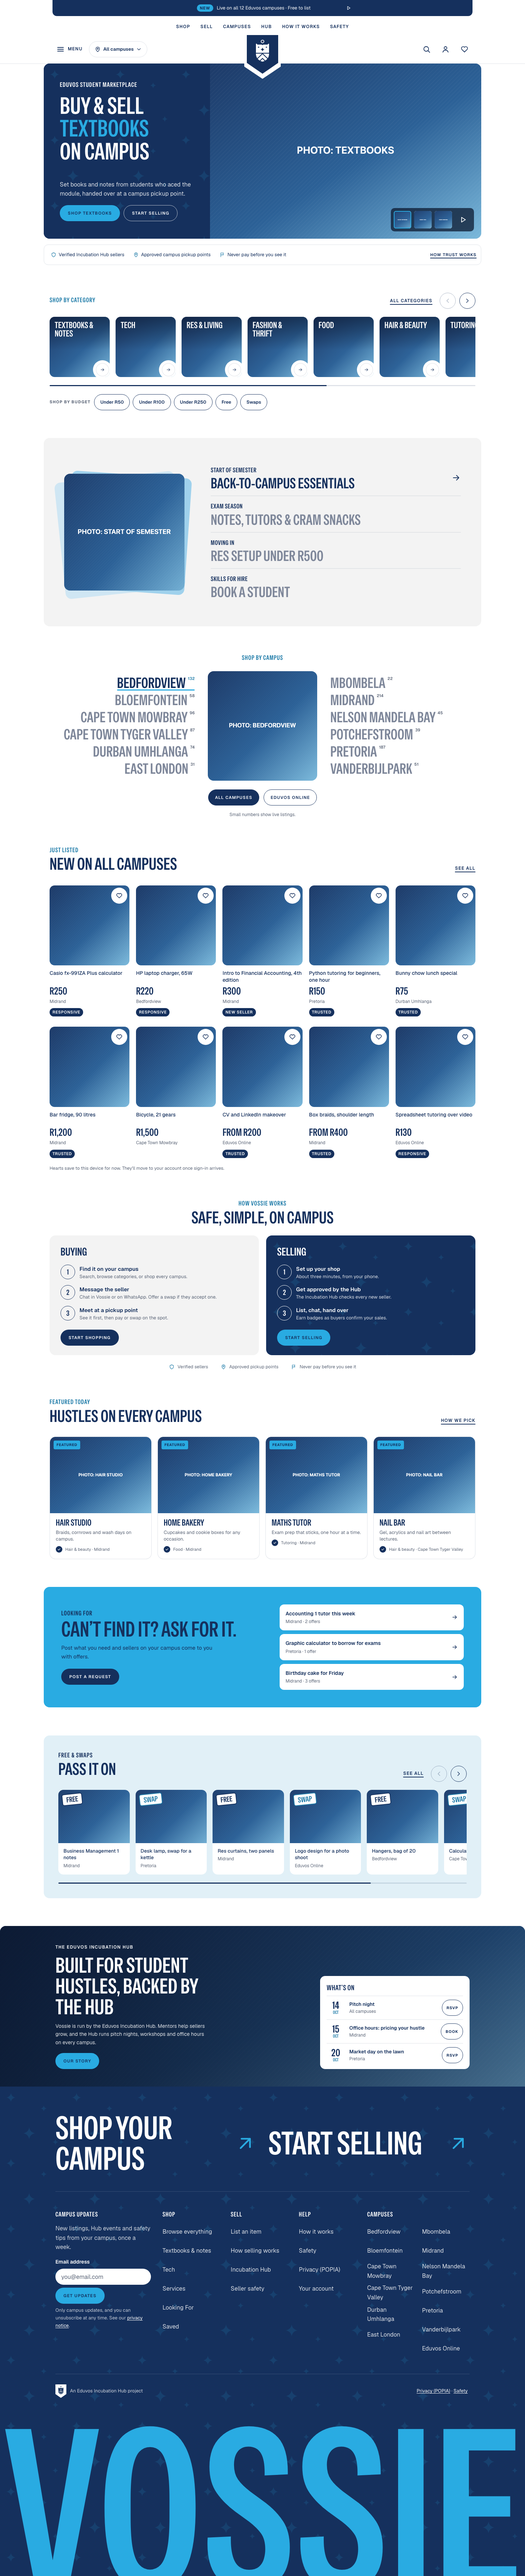
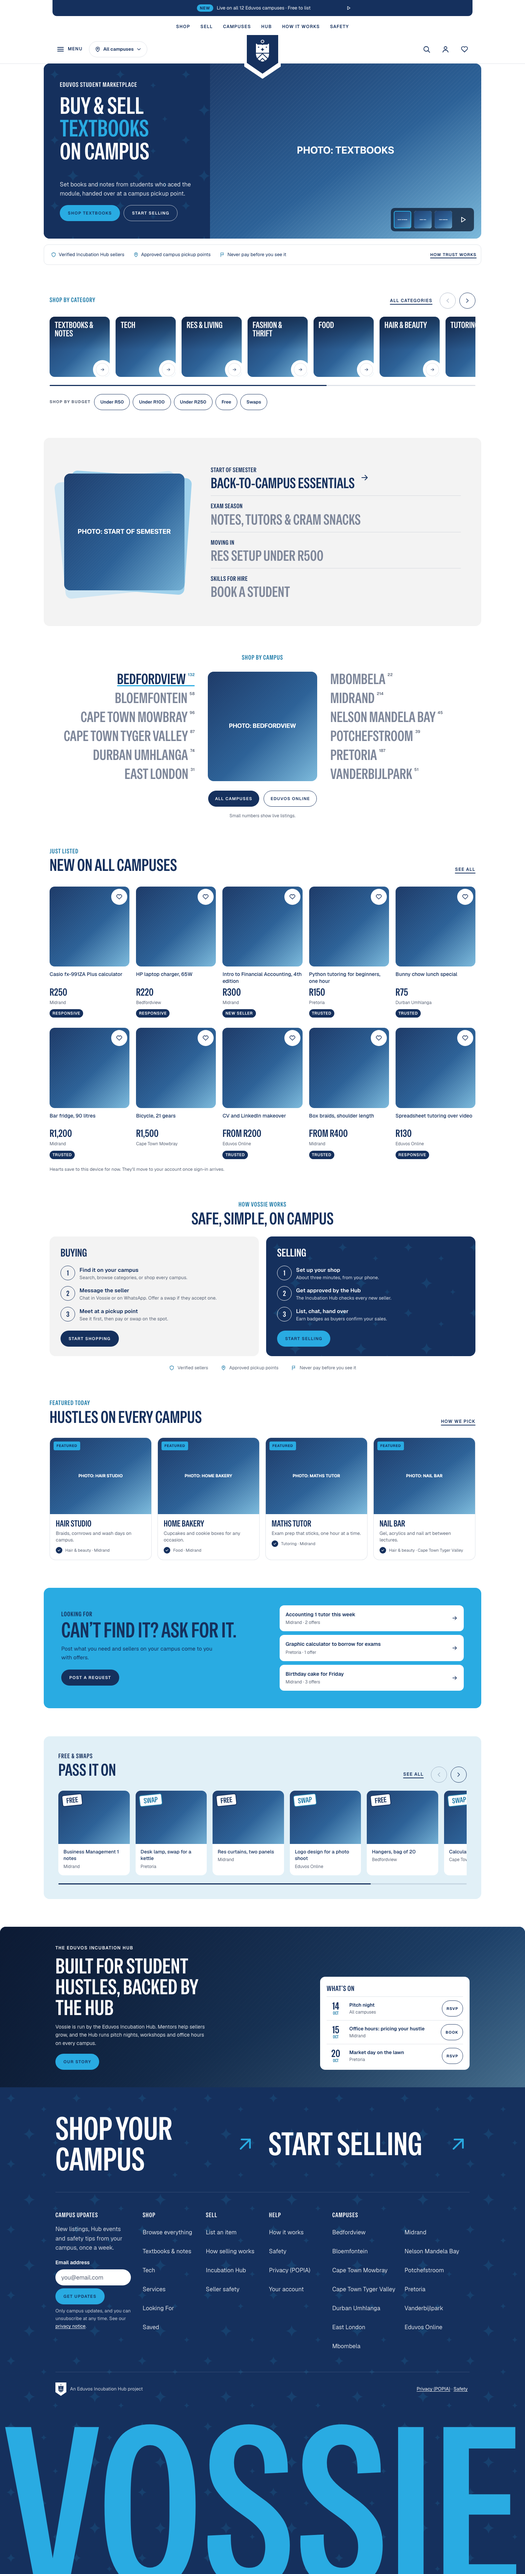
docs: record Lama's open-point decisions 27 to 34, update progress, retake the review screenshots

diff --git a/docs/reference/LANDING-DECISIONS.md b/docs/reference/LANDING-DECISIONS.md
@@ -34,6 +34,14 @@ The approved mockup screens are in `docs/reference/mockups/` (`home-v2.html` is 
 | 24 | 2026-10-12 | Touch targets where the mockup draws them smaller (plan decision 18) | **44px.** This covers the hero thumbnails (36px in the mockup) and the hero's campus chip (30px), the Just listed switch (32px), the budget chips (36 to 40px) and the RSVP and Book buttons | Spec section 5 asks for 44px targets. Lama, on Claude's recommendation |
 | 25 | 2026-10-12 | The chosen campus card on phones (plan decision 19) | **A navy tick as well as the sky ring** | A sky ring alone is 2.6:1 on white (WCAG 1.4.11). Lama, on Claude's recommendation |
 | 26 | 2026-10-12 | Reading the clock in a campus-aware section | **`await connection()` before reading the clock.** Featured today and What's on do this | Reading the cookie is not enough: with partial prefetching on, Next logs "unstable value new Date()" on every request. `connection()` defers the rest of the render to the request, as Next's docs ask. Lama, on Claude's recommendation |
+| 27 | 2026-10-12 | JS headroom after Part 2 (295 B before the stop line) | **The search overlay's `next/form` became a plain form with `router.push()`** | Saved 1,503 B brotli; the form still submits to `/browse?q=` before hydration. Lama, on Claude's recommendation |
+| 28 | 2026-10-12 | Link prefetching on mobile data | **No prefetch on repeated card and tile links** (listings, categories, collections, sellers, free and swap items, recently viewed). Calls to action, "See all" links, the header and footer still prefetch | Scrolling the homepage had prefetched dozens of pages. In the App Router `prefetch={false}` also stops hover prefetch. Lama, on Claude's recommendation |
+| 29 | 2026-10-12 | Data saver scope (spec 5) | **Card and tile photos below the hero never load with data saver on**; tiles and campus cards show their words on navy. Image quality isn't lowered, and photos aren't loaded on tap: tapping a card opens its page | Spec 5's "photos below the fold only when tapped" would need JavaScript on every image. Lama, on Claude's recommendation |
+| 30 | 2026-10-12 | Shop by campus details | **The cycle pauses while off screen; on phones the chosen campus comes second, with its tick top-left; the header pill fills navy once a campus is chosen (the mockup's "pill on"); 8px between campus names** | The pause saves photo downloads (about 13 a minute once real photos exist). Lama, on Claude's recommendation |
+| 31 | 2026-10-12 | Looking For on tablet and desktop | **"Post a request" sits in the intro, before the requests,** at every size | The keyboard order now matches the layout. On phones the button comes before the requests, not after them as in the mockup. Lama, on Claude's recommendation |
+| 32 | 2026-10-12 | Footer columns on desktop | **`1.1fr repeat(3, minmax(0, 0.75fr)) 2fr`** | Nothing wraps at 1280 or 1440. The slack is about 5px, so remeasure when the Eduvos fonts arrive. Lama, on Claude's recommendation |
+| 33 | 2026-10-12 | Smaller points after Part 2 | **Done:** Collections hover only for a mouse (touch uses focus); the Collections arrow follows its title; sample events run to February 2027; the viewer falls back to all campuses if the campus lookup fails; Just listed says "No new listings yet" when nothing is new anywhere. **Kept as built:** the hero offers Play under reduced motion (the campus cycle doesn't, being decorative); the chip's "Shopping all campuses" and the pill's "All campuses"; the scroll reveal's fade near the bottom edge; the How it works heading centred on phones | Lama, on Claude's recommendation |
+| 34 | 2026-10-12 | Largest Contentful Paint | **Revisit when the real photos arrive.** Lighthouse's simulated slow 4G gives 3.3s (spec: 2.5s); unthrottled it's under 0.2s, and the LCP element is the hero photo, already loaded first | Real photos (AVIF through `next/image`) will change it. Lama, on Claude's recommendation |
 
 ## Still open
 

diff --git a/docs/PROGRESS.md b/docs/PROGRESS.md
@@ -70,22 +70,24 @@ These are decisions 13 to 19 in `docs/reference/LANDING-DECISIONS.md`.
 - Layout shift 0.0015 at 390 and 0.0036 at 1440. Lighthouse mobile (median of three): Performance 0.93, Accessibility 1.00.
 - Review screenshots: `docs/progress/part-2/`.
 
+## 2026-10-12: Lama's open points after Part 2
+Lama went with Claude's recommendations. They are decisions 27 to 34 in `docs/reference/LANDING-DECISIONS.md`.
+- **JavaScript.** The search overlay's `next/form` became a plain form with `router.push()`, saving 1,503 B. First visit JS is now 150,316 B brotli, 1,684 B under the stop line.
+- **Mobile data.** Repeated card and tile links no longer prefetch. With data saver on, card and tile photos below the hero never load.
+- **Shop by campus.** The cycle pauses off screen. On phones the chosen campus comes second, with its tick top-left. The header pill fills navy once a campus is chosen. Campus names have 8px gaps.
+- **Smaller changes:**
+  - Looking For's keyboard order matches its layout.
+  - Footer columns no longer wrap at 1280 or 1440.
+  - Sample events run to February 2027.
+  - Collections hover is for a mouse only, and its arrow follows the title.
+  - The viewer survives a failed campus lookup.
+  - Just listed has an "all quiet" message.
+- **Kept as built, with reasons in decision 33:** the hero's Play under reduced motion, the chip and pill wording, the scroll reveal's fade near the bottom edge, and the centred How it works heading.
+- **LCP** (3.3 s simulated, against the spec's 2.5 s) is revisited when real photos arrive (decision 34).
+- **Checks:** 310 unit tests. End to end, 283 pass, 142 are skipped by design and none fail.
+
 ## Next
-- Lama reviews the Part 2 screenshots in `docs/progress/part-2/` against the mockup.
-- Open for Lama:
-  - LCP of 3.3 s under Lighthouse's simulated slow 4G, against the spec's 2.5 s: revisit when real photos arrive;
-  - JS headroom of 295 B before the stop line: the next stage needs a saving first, such as replacing `next/form`;
-  - prefetching on mobile data (`prefetch={false}` on the card grids?);
-  - the data-saver scope compared with spec section 5;
-  - the campus highlight keeps cycling off-screen;
-  - under reduced motion, the hero offers Play but the campus cycle doesn't;
-  - the hero chip's "Shopping all campuses" against the pill's "All campuses";
-  - Looking For's tab order on wide screens;
-  - long campus names wrap in the two footer columns and on tablets in Shop by campus;
-  - the sample events run out after 28 October 2026;
-  - the scroll reveal fades out again in the bottom 120px when scrolling back up;
-  - Collections' hover isn't behind `(hover: hover)`;
-  - 3px gaps between the campus names and the switch segments.
+- Lama reviews the Part 2 screenshots in `docs/progress/part-2/` against the mockup. They were retaken after the open-point changes; to retake them again, run `SCREENSHOTS=1 pnpm e2e tests/e2e/screenshots.spec.ts -g "homepage review screenshots"`.
 - Then the next stage of pages.
 
 ## Waiting on
